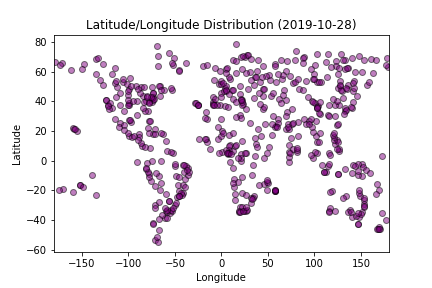
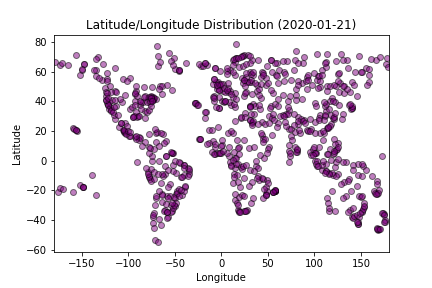
Website Update 0.1.1
Updated images, added fontawesome fonts for next uploaded projects

diff --git a/index.html b/index.html
@@ -30,11 +30,38 @@
                         <i class="fas fa-sitemap"></i>
                           Project List
                       </a>
-                      <div class="dropdown-menu" aria-labelledby="navbarDropdown">
-                          <a class="dropdown-item" href="#worldweather">
+                      <div class="dropdown-menu" style="left:auto; right:0;" aria-labelledby="navbarDropdown">
+                        <a class="dropdown-item" href="#worldweather">
                             <i class="fas fa-cloud-sun-rain"></i>
-
                               World Weather Trends
+                          </a>
+                          <a class="dropdown-item" href="#bellybio">
+                            <i class="fas fa-microscope"></i>
+                              Belly-Button Biodiversity
+                          </a>
+                          <!-- <a class="dropdown-item" href="#arcticmonkey">
+                            <i class="fas fa-music"></i>
+                              Arctic Monkeys Sentiment Analysis
+                          </a> -->
+                          <!-- <a class="dropdown-item" href="#hawaiiclimate">
+                            <i class="fas fa-umbrella-beach"></i>
+                              Hawaii Climate
+                          </a> -->
+                          <a class="dropdown-item" href="#officemart">
+                            <i class="fas fa-shopping-bag"></i>
+                              Office Mart Retail
+                          </a>
+                          <a class="dropdown-item" href="#videogames">
+                            <i class="fas fa-gamepad"></i>
+                              Video Game Sales
+                          </a>
+                          <a class="dropdown-item" href="#pyber">
+                            <i class="fas fa-car"></i>
+                              Pyber Rideshares
+                          </a>
+                          <a class="dropdown-item" href="#nycbike">
+                            <i class="fas fa-bicycle"></i>
+                              NYCiti Bikes
                           </a>
                           </div>
                   </li>
@@ -49,44 +76,42 @@
       </div>
   </nav>
 
-  <div id="mainpage" class="container-fluid d-flex flex-column justify-content-center align-items-center">
-      <div class="row mt-1">
-          <div class="box col-md-8 col-sm-12" style="padding-top: 40px">
-              <div class = "container-fluid d-flex flex-column justify-content-center align-items-center">
-                  <h3 class="text-center text-info font-weight-bold" style="margin-top: 50px;">Welcome</h3>
-                  <p class="text-justify">My name is Julian Freeman, and this is my project portfolio webpage. Please feel free to scroll down to view completed projects, or select a project from the 
-                      dropdown menu above.
-                  </p>
-                  <p class="text-justify">My primary background is in physics research, with a focus on soft-condensed-matter and random-close-packing. Throughout my time as a researcher, 
-                      I have participated in numerous experiments and projects within my field, one of which culminated in published results in Condensed Matter Physics. 
-                  </p>
-                  <p class="text-justify">Please feel free to visit my other web pages below to connect with me.
-                  </p>
-                  <div class="social-media mt-2">
-                    <span><a class="social" href="https://www.linkedin.com/in/freeman-julian/" target="_blank"><i class="fab fa-linkedin-in fa-2x"></i></a></span>
-                    <span><a class="social" href="https://github.com/jofreeman1014/" target="_blank"><i class="fab fa-github fa-2x"></i></a></span>
+    <div id="mainpage" class="container-fluid d-flex flex-column justify-content-center align-items-center">
+        <div class="row mt-1">
+            <div class="box col-md-8 col-sm-12" style="padding-top: 40px">
+                <div class = "container-fluid d-flex flex-column justify-content-center align-items-center">
+                    <h3 class="text-center text-info font-weight-bold" style="margin-top: 50px;">Welcome</h3>
+                    <p class="text-justify">My name is Julian Freeman, and this is my project portfolio webpage. Please feel free to scroll down to view completed projects, or select a project from the 
+                        dropdown menu above.
+                    </p>
+                    <p class="text-justify">My primary background is in physics research, with a focus on soft-condensed-matter and random-close-packing. Throughout my time as a researcher, 
+                        I have participated in numerous experiments and projects within my field, one of which culminated in published results in Condensed Matter Physics. 
+                    </p>
+                    <p class="text-justify">Please feel free to visit my other web pages below to connect with me.
+                    </p>
+                    <div class="social-media mt-2">
+                        <span><a class="social" href="https://www.linkedin.com/in/freeman-julian/" target="_blank"><i class="fab fa-linkedin-in fa-2x"></i></a></span>
+                        <span><a class="social" href="https://github.com/jofreeman1014/" target="_blank"><i class="fab fa-github fa-2x"></i></a></span>
+                    </div>
                 </div>
-              </div>
-          </div>
-  
-          <div class="box col-md-4 col-sm-12">
-              <img class="headshot img-thumbnail" src="./assets/images/pic.jpg" alt="profile pic">
-          </div>
-      </div>  
-  </div>
+            </div>
 
+            <div class="box col-md-4 col-sm-12">
+                <img class="headshot img-thumbnail" src="./assets/images/pic.jpg" alt="profile pic">
+            </div>
+        </div>  
+    </div>
         <!-- Template Code For Fillers -->
     <div id="worldweather" class="h-100 mt-5 pt-5 container-fluid d-flex flex-column justify-content-center align-items-center">
         <h2 class="font-weight-normal mb-3"> World Weather Trends</h2>
-        <div class = "container">
+        <div class="container-fluid d-flex flex-column" style="padding-left: 160px;">
             <div class = "row">
                 <div class="box col-md-6 col-sm-12" style="padding-top: 40px">
-                    <p style="width: 500px">This project focused on observing different weather and climate patterns across the globe. Using an API, I pulled live weather data randomly on a global scale,
+                    <p>This project focused on observing different weather and climate patterns across the globe. Using an API, I pulled live weather data randomly on a global scale,
                         then used Python to visualize the results. 
                     </p>
                     <h6 class="text-center">Tools and Techniques:</h6> 
                     <ul>    
-                        <!-- <li data-toggle="tooltip" title="" data-original-title="Libraries pymongo, pickle (to save and load the model), sklearn, nltk, pandas, re (to clean up the data), tweepy (to use the Twitter API), searchtweets, seaborn, word cloud, and matplotlib.">Python</li>                       -->
                         <li>Python (Matplotlib, Jupyter Notebook)</li>
                         <li><a href="https://openweathermap.org/" target="_blank">OpenWeatherMap API</a></li>
                         <li>Hosted through Github Pages</li>
@@ -95,14 +120,14 @@
                     <h6 class = "text-center"><a href="https://github.com/jofreeman1014/python/tree/master/Python-APIs" target="_blank"><small>Github Link</small></a></h6>
                 </div>
                 <div class="box col-md-6 col-sm-12">
-                    <img class="img-thumbnail" src="assets/images/LatLongDist.png" style = "margin-top: 40px;"alt="wwp image">
+                    <img class="img-thumbnail" src="assets/images/LatLongDist.png" style = "margin-top: 40px;"alt="wwt image">
                 </div>
             </div>
         </div>
     </div>
     <div id="bellybio" class="h-100 mt-5 pt-5 container-fluid d-flex flex-column justify-content-center align-items-center">
         <h2 class="font-weight-normal mb-3"> Belly-Button Biodiversity</h2>
-        <div class = "container">
+        <div class="container-fluid d-flex flex-column" style="padding-left: 160px;">
             <div class = "row">
                 <div class="box col-md-6 col-sm-12" style="padding-top: 40px">
                     <p style="width: 500px">This project focused on observing different weather and climate patterns across the globe. Using an API, I pulled live weather data randomly on a global scale,
@@ -124,9 +149,49 @@
             </div>
         </div>
     </div>
-    <div id="arcticmonkey" class="h-100 mt-5 pt-5 container-fluid d-flex flex-column justify-content-center align-items-center">
+    <!-- <div id="arcticmonkey" class="h-100 mt-5 pt-5 container-fluid d-flex flex-column justify-content-center align-items-center">
         <h2 class="font-weight-normal mb-3"> Arctic Monkeys Sentiment Analysis</h2>
-        <div class = "container">
+        <div class="container-fluid d-flex flex-column" style="padding-left: 160px;">
+            <div class = "row">
+                <div class="box col-md-6 col-sm-12" style="padding-top: 40px">
+                    <p style="width: 500px">Coming Soon! 
+                    </p>
+                    <h6 class="text-center">Tools and Techniques:</h6> 
+                    <ul>    
+                        <li>Python (Matplotlib, Jupyter Notebook)</li>
+                    </ul>    
+                    <h6 class = "text-center"><a href="https://jofreeman1014.github.io/jofweather/" target="_blank"><small>Website Link</small></a></h6>
+                    <h6 class = "text-center"><a href="https://github.com/jofreeman1014/python/tree/master/Python-APIs" target="_blank"><small>Github Link</small></a></h6>
+                </div>
+                <div class="box col-md-6 col-sm-12">
+                    <img class="img-thumbnail" src="assets/images/LatLongDist.png" style = "margin-top: 40px;"alt="wwp image">
+                </div>
+            </div>
+        </div>
+    </div>
+    <div id="hawaiiclimate" class="h-100 mt-5 pt-5 container-fluid d-flex flex-column justify-content-center align-items-center">
+        <h2 class="font-weight-normal mb-3"> Hawaii Climate Analysis</h2>
+        <div class="container-fluid d-flex flex-column" style="padding-left: 160px;">
+            <div class = "row">
+                <div class="box col-md-6 col-sm-12" style="padding-top: 40px">
+                    <p style="width: 500px">Coming Soon! 
+                    </p>
+                    <h6 class="text-center">Tools and Techniques:</h6> 
+                    <ul>    
+                        <li>Python (Matplotlib, Jupyter Notebook)</li>
+                    </ul>    
+                    <h6 class = "text-center"><a href="https://jofreeman1014.github.io/jofweather/" target="_blank"><small>Website Link</small></a></h6>
+                    <h6 class = "text-center"><a href="https://github.com/jofreeman1014/python/tree/master/Python-APIs" target="_blank"><small>Github Link</small></a></h6>
+                </div>
+                <div class="box col-md-6 col-sm-12">
+                    <img class="img-thumbnail" src="assets/images/LatLongDist.png" style = "margin-top: 40px;"alt="wwp image">
+                </div>
+            </div>
+        </div>
+    </div> -->
+    <div id="officemart" class="h-100 mt-5 pt-5 container-fluid d-flex flex-column justify-content-center align-items-center">
+        <h2 class="font-weight-normal mb-3"> Office Mart Retail</h2>
+        <div class="container-fluid d-flex flex-column" style="padding-left: 160px;">
             <div class = "row">
                 <div class="box col-md-6 col-sm-12" style="padding-top: 40px">
                     <p style="width: 500px">Coming Soon! 
@@ -145,9 +210,10 @@
             </div>
         </div>
     </div>
+
     <div id="videogames" class="h-100 mt-5 pt-5 container-fluid d-flex flex-column justify-content-center align-items-center">
         <h2 class="font-weight-normal mb-3"> Video Game Trends</h2>
-        <div class = "container">
+        <div class="container-fluid d-flex flex-column" style="padding-left: 160px;">
             <div class = "row">
                 <div class="box col-md-6 col-sm-12" style="padding-top: 40px">
                     <p style="width: 500px">Coming soon! 
@@ -168,7 +234,7 @@
     </div>
     <div id="pyber" class="h-100 mt-5 pt-5 container-fluid d-flex flex-column justify-content-center align-items-center">
         <h2 class="font-weight-normal mb-3"> Pyber</h2>
-        <div class = "container">
+        <div class="container-fluid d-flex flex-column" style="padding-left: 160px;">
             <div class = "row">
                 <div class="box col-md-6 col-sm-12" style="padding-top: 40px">
                     <p style="width: 500px">Coming soon! 
@@ -187,9 +253,9 @@
             </div>
         </div>
     </div>
-    <div id="nycscooter" class="h-100 mt-5 pt-5 container-fluid d-flex flex-column justify-content-center align-items-center">
+    <div id="nycbike" class="h-100 mt-5 pt-5 container-fluid d-flex flex-column justify-content-center align-items-center">
         <h2 class="font-weight-normal mb-3"> NYCiti Bike</h2>
-        <div class = "container">
+        <div class="container-fluid d-flex flex-column" style="padding-left: 160px;">
             <div class = "row">
                 <div class="box col-md-6 col-sm-12" style="padding-top: 40px">
                     <p style="width: 500px">Coming soon! 
@@ -218,13 +284,11 @@
 
 <!-- 
 List of Projects to add:
-    - Arctic Monkeys Sentiment Analysis
-    - Pyber
     - Healthcare Link
     - Leaflet Map (FIX!)
     - Web Scraping (FIX!)
     - Tableau Dashboard
-    - Video Game Tableau Dashboard?
+    - Video Game Tableau Dashboard? Other Dashboards?
     - SQLAlchemy and SQL?
 
 

diff --git a/assets/css/styles.css b/assets/css/styles.css
@@ -86,7 +86,7 @@ body {
     padding-left: 40px;
     padding-right: 40px
 }
-#pymaceuticals
+#nycbike
 {
 	padding-top: 90px!important;
 }
@@ -102,17 +102,13 @@ body {
 
 /* #mainpage, */
 #worldweather,
-/* #immigration, */
-#unveilip,
-/* #leaflet, */
-#d3-challenge,
-/* #d3-plotly, */
-#missiontomars,
-/* #employees-research, */
-#latitude-dashboard,
-/* #dynamic-filter, */
-#weather 
-/* #pymaceuticals */
+/* #bellybio, */
+#arcticmonkey,
+/* #hawaiiclimate, */
+#officemart,
+/* #videogames, */
+#pyber
+/* #nycbike */
 { 
 	background: #f2f5f8;
 }
@@ -156,7 +152,7 @@ p {
 	font-size: 1rem;
 	line-height: 1.6rem;
 	color: rgba(0,0,0,.8);
-	width: 50%;
+	width: 80%;
 
 }
 p::first-letter {
